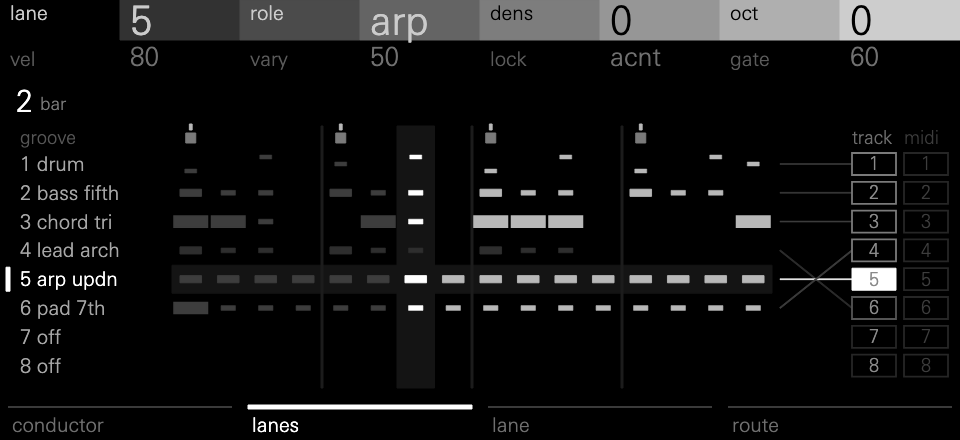
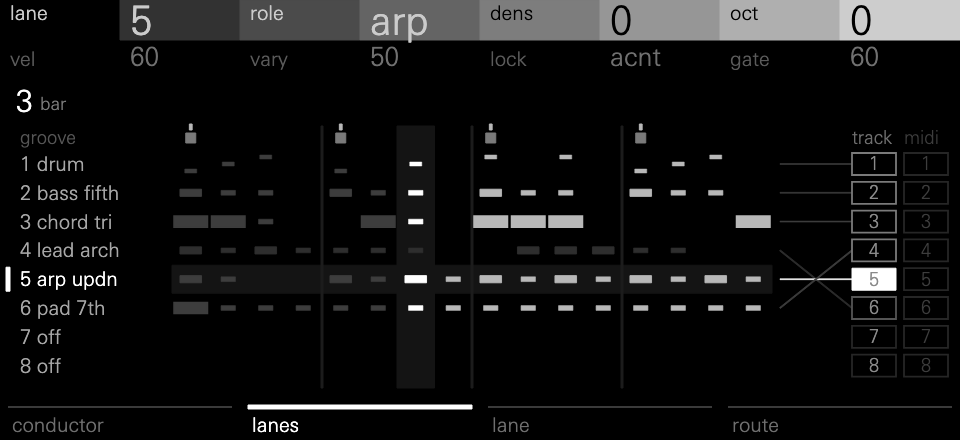
Conductor: a sparser arp and presets with their own character
- The arp follows the song's density: it rests below 40, lifts the last
  two bars of each phrase up to 65, and plays every bar above. By
  default it runs at 1/8 over one octave, skips more and plays quieter.
- Presets: init stays the defaults; Pop is bright G major and busy
  (the arp every bar); Night is sparse A minor on slow chords (no arp);
  Jazz is swung F major on the jazz progression (the arp lifts only).
- M3 says when the lane rests for the bar. Renders are at bar 3.

diff --git a/tests/conductor.cpp b/tests/conductor.cpp
@@ -54,6 +54,31 @@ static bool in_scale(const Globals& g, u32 pitch) {
     return false;
 }
 
+// The arp follows the song's energy: it rests when the song is sparse, plays
+// the second half of each phrase in the middle, and every bar when busy.
+static void arp_energy() {
+    static Song song;
+    static Bar bar;
+    default_song(song);
+    const u32 arp = 4;
+    u32 bars[3][kPhrase] = {};
+    const u32 densities[3] = {35, 50, 70};
+    for (u32 k = 0; k < 3; ++k) {
+        const Globals g = globals(0, 0, 0, densities[k], 40, 1, 0, 30);
+        for (i32 b = 0; b < 16; ++b) {
+            generate(song, g, b, bar);
+            for (u32 i = 0; i < bar.count; ++i)
+                if (bar.events[i].lane == arp) {
+                    ++bars[k][b % kPhrase];
+                    break;
+                }
+        }
+    }
+    check(bars[0][0] + bars[0][1] + bars[0][2] + bars[0][3] == 0, "in a sparse song the arp rests");
+    check(bars[1][0] + bars[1][1] == 0 && bars[1][2] && bars[1][3], "at middling energy the arp lifts each phrase's last two bars");
+    check(bars[2][0] && bars[2][1] && bars[2][2] && bars[2][3], "in a busy song the arp plays every bar");
+}
+
 static void globals_decode() {
     for (u32 c = 0; c < 12; ++c) check(global_value(kKey, choice_word(c, 12)) == static_cast<i32>(c), "key choices decode");
     check(global_value(kDensity, percent_word(100)) == 100 && global_value(kDensity, 0) == 0, "percentages decode");
@@ -424,6 +449,7 @@ static void notes_per_tick() {
 int main() {
     globals_decode();
     generation();
+    arp_energy();
     freezing();
     controlling();
     stopped_transport();

diff --git a/specs.h b/specs.h
@@ -97,9 +97,9 @@ static const Spec kDetailSpecs[kRoles - 1][8] = {
      {"move", 0, 100, 80, kNumber, nullptr}, {"retrig", 0, 1, 0, kChoice, kRetrig},
      {"color", 0, 100, 30, kNumber, nullptr}, {"double", 0, 1, 0, kChoice, kOffOn},
      {"swell", 0, 100, 60, kNumber, nullptr}, {"drift", 0, 100, 20, kNumber, nullptr}},
-    {{"mode", 0, 5, 2, kChoice, kArpModes}, {"rate", 0, 2, 2, kChoice, kArpRates},
-     {"range", 0, 2, 1, kChoice, kRanges3}, {"steps", 3, 8, 8, kNumber, nullptr},
-     {"skip", 0, 100, 15, kNumber, nullptr}, {"accent", 0, 100, 50, kNumber, nullptr},
+    {{"mode", 0, 5, 2, kChoice, kArpModes}, {"rate", 0, 2, 1, kChoice, kArpRates},
+     {"range", 0, 2, 0, kChoice, kRanges3}, {"steps", 3, 8, 8, kNumber, nullptr},
+     {"skip", 0, 100, 30, kNumber, nullptr}, {"accent", 0, 100, 50, kNumber, nullptr},
      {"tones", 0, 1, 0, kChoice, kTones}, {"jump", 0, 100, 10, kNumber, nullptr}},
     {{"contour", 0, 4, 0, kChoice, kContours}, {"rate", 0, 100, 45, kNumber, nullptr},
      {"range", 3, 14, 8, kNumber, nullptr}, {"rest", 0, 100, 35, kNumber, nullptr},

diff --git a/tools/screens/render.cpp b/tools/screens/render.cpp
@@ -44,7 +44,7 @@ int main(int argc, char** argv) {
         if (!std::strcmp(argv[i], "shift")) shift = true;
         if (!std::strcmp(argv[i], "row2")) row2 = true;
     }
-    // C minor, pop, playing bar 2 step 7. Lane 4 (lead) plays track 6 an
+    // C minor, pop, playing bar 3 step 7. Lane 4 (lead) plays track 6 an
     // octave up, muted; lane 6 (pad) plays track 4.
     const i32 globals[kGlobals] = {choice_word(0, 12), choice_word(1, 7), choice_word(0, 6), percent_word(60),
                                    percent_word(50),   choice_word(1, 4), percent_word(10), percent_word(30)};
@@ -59,7 +59,7 @@ int main(int argc, char** argv) {
     if (frozen) control_state.song.frozen_at = 0;
     control_state.lane = static_cast<u8>(lane);
     input.page_key = page + 1;
-    const u32 at = kBarTicks + 6 * kTicks;
+    const u32 at = 2 * kBarTicks + 6 * kTicks;
     for (u32 t = at - 30; t <= at; t += 3) tick(t);
     input.shift = shift;
     tick(at);

diff --git a/generator.h b/generator.h
@@ -51,6 +51,8 @@ inline void default_song(Song& song) {
         lane.variation = 0;
         lane.fill = 100;
         set_role(lane, roles[l]);
+        // The arp supports the song rather than leading it.
+        if (roles[l] == kArp) lane.main[kVel] = 60;
     }
 }
 
@@ -605,6 +607,10 @@ inline void arps(Context& c) {
     const i8* d = c.d;
     World& w = *c.world;
     const i32 mode = d[0], every = d[1] == 0 ? 4 : d[1] == 1 ? 2 : 1, octaves = d[2] + 1, E = c.energy;
+    // It follows the song's energy: below 40 it rests; to 65 it plays the
+    // second half of each phrase, lifting into the next; above, every bar.
+    const i32 phrase_bar = ((c.bar % static_cast<i32>(kPhrase)) + static_cast<i32>(kPhrase)) % static_cast<i32>(kPhrase);
+    if (E < 40 || (E < 65 && phrase_bar < 2)) return;
     for (i32 s = 0; s < static_cast<i32>(kSteps); s += every) {
         const Chord chord = c.chord_at(s);
         i32 semis[7];

diff --git a/tests/screens.cpp b/tests/screens.cpp
@@ -89,6 +89,9 @@ int main() {
         notes += t[0] >= 'A' && t[0] <= 'G' && ((t[1] >= '0' && t[1] <= '9') || t[1] == 'b' || t[1] == '#');
     }
     check(notes >= 6 && !shows("1 drum"), "M3 on a synth lane names its notes, not the other lanes");
+    // At this density the arp rests outside each phrase's last two bars.
+    open(3, 4);
+    check(shows("rests this bar"), "M3 says when the lane rests for the bar");
 
     // MIDI: shown, but nothing can be routed there until the SDK sends it.
     open(4, 0);

diff --git a/display.cpp b/display.cpp
@@ -474,6 +474,7 @@ inline void draw_roll(const Input& input, const View& v, Frame& frame) {
             const u32 shade = time_shade(v, lane, s < v.step, s == v.step, true);
             cells.put(frame, kLeft + kBeat * static_cast<i32>(s) + kBeat / 2, at.y(r), shade, 1434);
         }
+    if (!cells.next) centred(frame, kMidText + 2, kLeft + kSpan / 2, kRollMiddle + px(4), "rests this bar", 11);
 }
 
 // M4: each lane's range on a keyboard from C1 to C7, in dashes, moved by its

diff --git a/README.md b/README.md
@@ -44,8 +44,11 @@ encoders 1-4 reroll, freeze, fill and vary: every lane on M1, the selected
 lane on M2-M4; the header shows them on the row being edited. Freeze holds the
 current phrase; turn it back to release it.
 
-Lanes, roles, routes and the seed are saved with the project. The presets are
-init (the defaults), Pop, Night and Jazz.
+Lanes, roles, routes and the seed are saved with the project. The presets set
+M1's controls: init (the defaults, C major), Pop (bright G major, busy),
+Night (A minor, sparse, slow chords) and Jazz (F major, swung, rich chords).
+The arp follows the song's density: it rests in a sparse song, lifts the last
+two bars of each phrase in the middle, and plays every bar in a busy one.
 
 ## What you need
 
